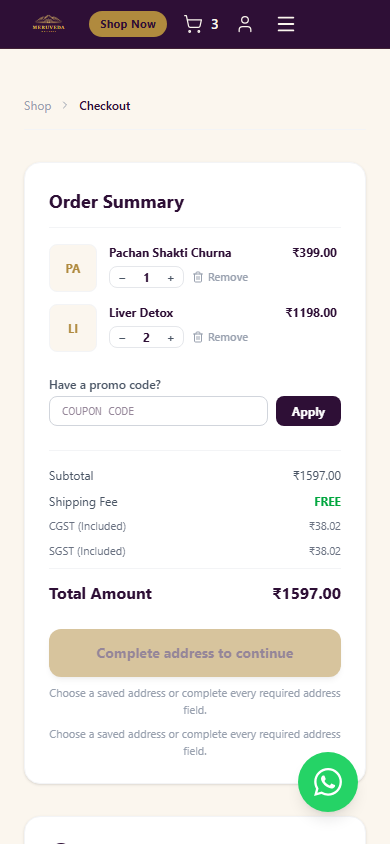
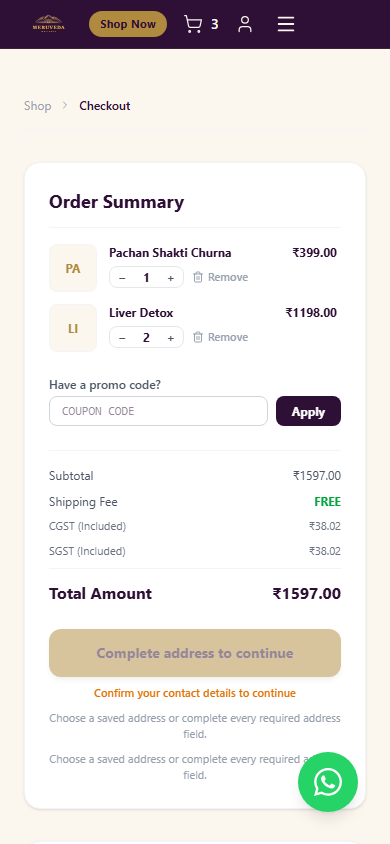
fix(checkout): the guest flow completes end to end
The confirmed contact was a boolean that any other state change could
clear, so the Pay Now / Place Order button stayed greyed out with the wrong
reason and the order could not be placed. The confirmation is now DERIVED
from a snapshot of the confirmed number - the session belongs to the number,
so the number decides; a name edit resets the snapshot explicitly.

Verified in a real browser on production:
- new customer -> Continue -> address -> COD order -> /checkout/success/<id>
- the same with PayU -> the PayU gateway (api.payu.in/paymentoptions)
- an invalid number -> 'Please enter a valid 10-digit Indian mobile number.'
- the pill turns into 'Contact confirmed'
- no horizontal scroll at 320/360/390/412/768/1024/1280/1440 on
  checkout, login, signup and track

Changed region(s): [[0.1231, 0.8009, 0.8615, 0.9242]]

diff --git a/frontend/src/app/checkout/page.tsx b/frontend/src/app/checkout/page.tsx
@@ -1021,14 +1021,13 @@ export default function CheckoutPage() {
   const currentDigits = fullPhoneDigits(mobile, phoneCountry);
 
   /**
-   * The contact is confirmed when it still matches the snapshot taken when
-   * "Continue" was pressed. Editing the name or the number therefore
-   * un-confirms it by itself, with no extra bookkeeping to keep in sync.
+   * The contact is confirmed when the NUMBER still matches the snapshot taken
+   * when "Continue" was pressed. The number is what the session belongs to, so
+   * it is the one thing that decides; a name edit resets the snapshot
+   * explicitly (see the name field), while a stray re-render cannot clear it.
    */
   const contactConfirmed =
-    confirmedContact !== null &&
-    confirmedContact.digits === currentDigits &&
-    confirmedContact.name === contactName.trim();
+    confirmedContact !== null && confirmedContact.digits === currentDigits;
 
   /** The contact is confirmed: the OTP was verified, or "Continue" was pressed. */
   const contactReady = guestMode ? contactConfirmed : otpVerified;
@@ -1284,6 +1283,10 @@ export default function CheckoutPage() {
                     onChange={(e) => {
                       setContactName(e.target.value);
                       setContactError("");
+                      // Typing a different name un-confirms the contact.
+                      if (confirmedContact && e.target.value.trim() !== confirmedContact.name) {
+                        setConfirmedContact(null);
+                      }
                     }}
                     className={inputClass}
                     placeholder="Enter your full name"
